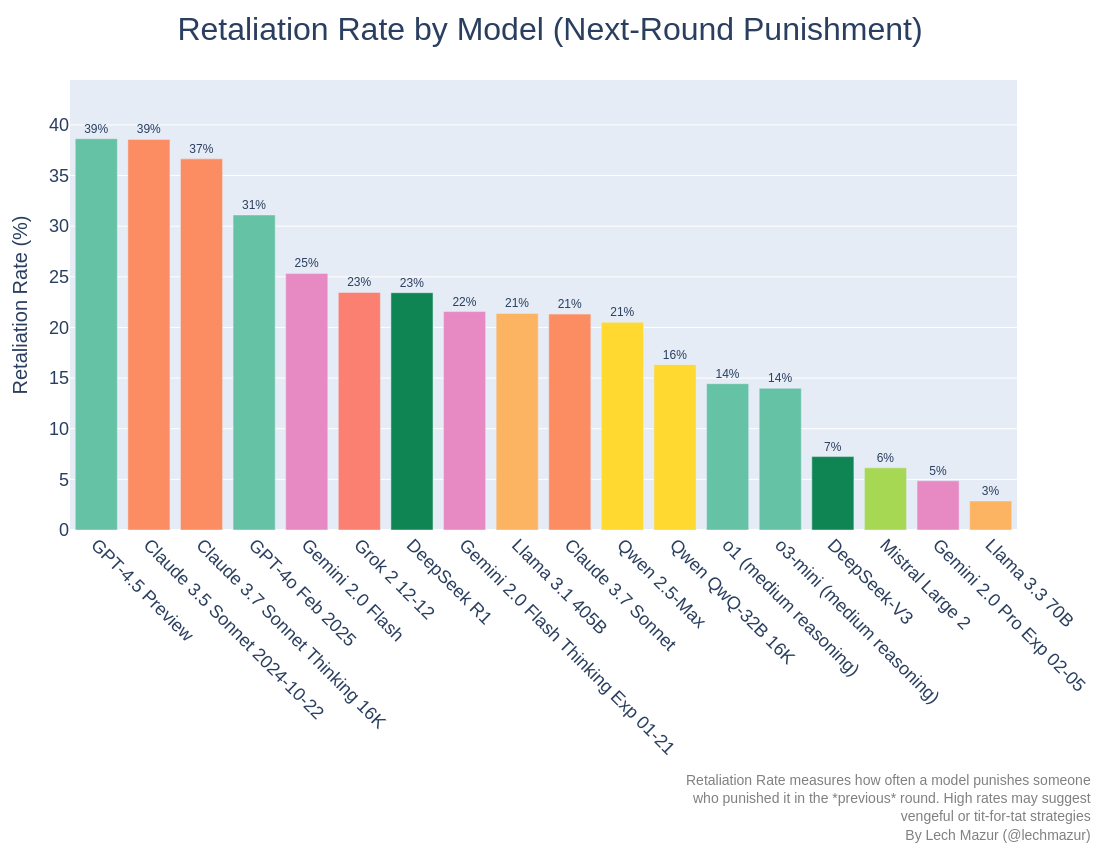
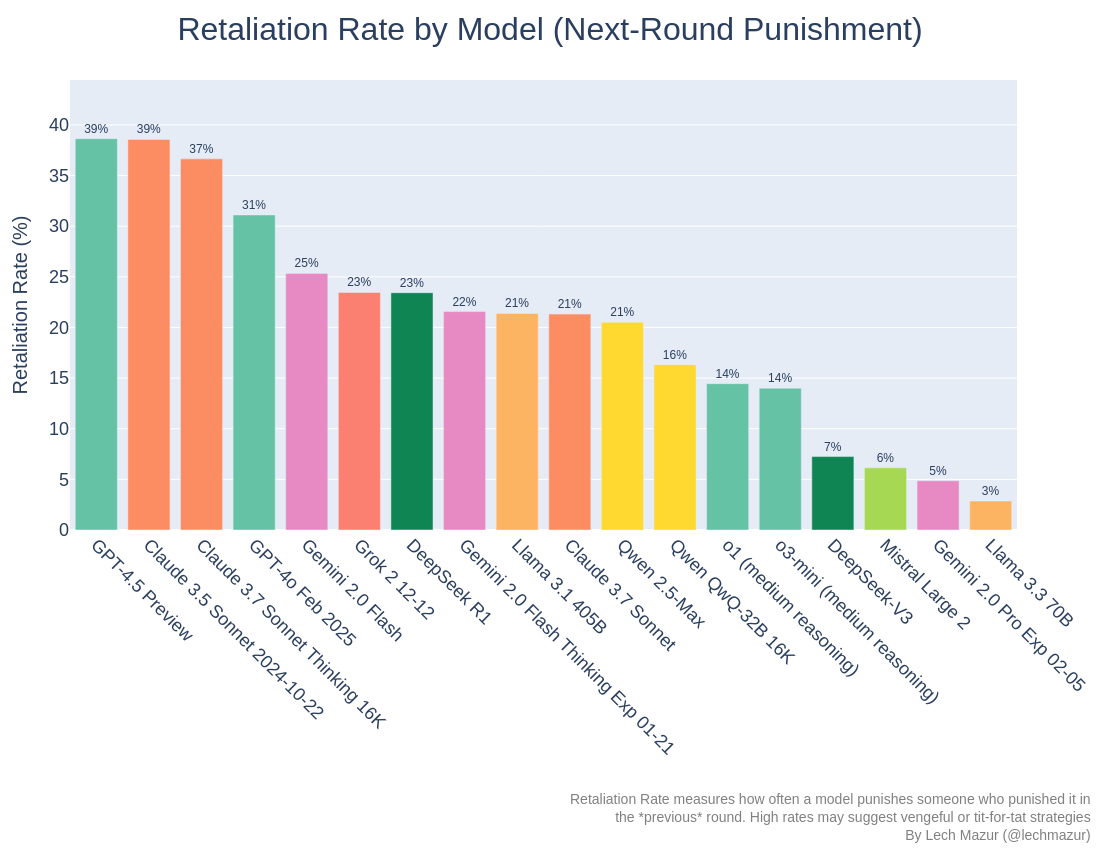
chart

Changed region(s): [[0.5255, 0.9176, 0.9891, 0.9788]]

diff --git a/README.md b/README.md
@@ -118,7 +118,7 @@ Bar chart of average fraction spent across all rounds (including those with no p
 ---
 ### **Retaliation Rate** 
 ![Retaliation Rate](/images/retaliation_bar.png)  
-Bar chart of how often a model punishes someone who punished them in the **previous** round. GPT-4.5 Preview two Claude Sonnet models demonstrate strong tit-for-tat tendencies. When punished, these models are more likely to seek revenge in the following round. There are markedly different strategies with some forgiving models rarely punishing those who previously punished them. High retaliators may create punishment cycles that reduce overall cooperation, while low retaliators might be exploited but potentially foster greater group success through forgiveness.
+Bar chart of how often a model punishes someone who punished them in the **previous** round. GPT-4.5 Preview and two Claude Sonnet models demonstrate strong tit-for-tat tendencies. When punished, these models are more likely to seek revenge in the following round. There are markedly different strategies with some forgiving models rarely punishing those who previously punished them. High retaliators may create punishment cycles that reduce overall cooperation, while low retaliators might be exploited but potentially foster greater group success through forgiveness.
 
 ---
 
@@ -126,26 +126,26 @@ Bar chart of how often a model punishes someone who punished them in the **previ
 
 We repeated 200 random passes through all completed games. Each pass updates TrueSkill from scratch in random order, so final **μ** and **σ** are the medians across passes. Below is the scoreboard:
 
-| Rank | Model | μ | σ | Games | Sum Tokens | Avg Tokens |
-|----:|:------|---:|---:|-----:|-----------:|-----------:|
-| 1 | o1 (medium reasoning) | 12.870 | 0.479 | 113 | 17410.0 | 154.07 |
-| 2 | Mistral Large 2 | 11.603 | 0.411 | 148 | 12150.0 | 82.09 |
-| 3 | o3-mini (medium reasoning) | 10.857 | 0.431 | 137 | 23016.0 | 168.00 |
-| 4 | Claude 3.7 Sonnet Thinking 16K | 10.794 | 0.426 | 137 | 21375.0 | 156.02 |
-| 5 | DeepSeek-V3 | 10.705 | 0.430 | 136 | 12881.0 | 94.71 |
-| 6 | Gemini 2.0 Pro Exp 02-05 | 10.499 | 0.410 | 148 | 13382.0 | 90.42 |
-| 7 | Llama 3.3 70B | 10.010 | 0.430 | 135 | 17138.0 | 126.95 |
-| 8 | GPT-4.5 Preview | 10.002 | 0.434 | 135 | 20137.0 | 149.16 |
-| 9 | GPT-4o Feb 2025 | 9.705 | 0.435 | 133 | 13220.0 | 99.40 |
-| 10 | Grok 2 12-12 | 9.546 | 0.436 | 131 | 12781.0 | 97.56 |
-| 11 | DeepSeek R1 | 9.336 | 0.467 | 117 | 9325.0 | 79.70 |
-| 12 | Qwen 2.5-Max | 9.299 | 0.410 | 148 | 12228.0 | 82.62 |
-| 13 | Claude 3.7 Sonnet | 9.137 | 0.436 | 133 | 31489.0 | 236.76 |
-| 14 | Qwen QwQ-32B 16K | 8.485 | 0.472 | 115 | 10125.0 | 88.04 |
-| 15 | Claude 3.5 Sonnet 2024-10-22 | 8.267 | 0.443 | 128 | 21780.0 | 170.16 |
-| 16 | Gemini 2.0 Flash Thinking Exp 01-21 | 8.085 | 0.429 | 137 | 22689.0 | 165.61 |
-| 17 | Llama 3.1 405B | 7.970 | 0.418 | 143 | 14106.0 | 98.64 |
-| 18 | Gemini 2.0 Flash | 4.864 | 0.456 | 126 | 11185.0 | 88.77 |
+| Rank | Model | μ | σ | Games | Avg Tokens |
+|----:|:------|---:|---:|-----:|-----------:|
+| 1 | o1 (medium reasoning) | 13.201 | 0.480 | 113 | 154.07 |
+| 2 | Mistral Large 2 | 11.961 | 0.411 | 148 | 82.09 |
+| 3 | o3-mini (medium reasoning) | 11.230 | 0.431 | 137 | 168.00 |
+| 4 | Claude 3.7 Sonnet Thinking 16K | 11.180 | 0.427 | 137 | 156.02 |
+| 5 | DeepSeek-V3 | 11.037 | 0.430 | 136 | 94.71 |
+| 6 | Gemini 2.0 Pro Exp 02-05 | 10.939 | 0.411 | 148 | 90.42 |
+| 7 | GPT-4.5 Preview | 10.518 | 0.433 | 135 | 149.16 |
+| 8 | Llama 3.3 70B | 10.449 | 0.430 | 135 | 126.95 |
+| 9 | Grok 2 12-12 | 10.066 | 0.435 | 131 | 97.56 |
+| 10 | GPT-4o Feb 2025 | 10.053 | 0.435 | 133 | 99.40 |
+| 11 | Qwen 2.5-Max | 9.733 | 0.411 | 148 | 82.62 |
+| 12 | DeepSeek R1 | 9.684 | 0.467 | 117 | 79.70 |
+| 13 | Claude 3.7 Sonnet | 9.494 | 0.437 | 133 | 236.76 |
+| 14 | Qwen QwQ-32B 16K | 8.846 | 0.472 | 115 | 88.04 |
+| 15 | Claude 3.5 Sonnet 2024-10-22 | 8.587 | 0.444 | 128 | 170.16 |
+| 16 | Gemini 2.0 Flash Thinking Exp 01-21 | 8.412 | 0.428 | 137 | 165.61 |
+| 17 | Llama 3.1 405B | 8.368 | 0.419 | 143 | 98.64 |
+| 18 | Gemini 2.0 Flash | 5.188 | 0.456 | 126 | 88.77 |
 
 We use Microsoft’s [TrueSkill](https://www.microsoft.com/en-us/research/project/trueskill-ranking-system/) to measure skill in **multi-player** scenarios. 200 random “passes” through all game logs help remove order bias, yielding final μ±σ. Defaults:
 
